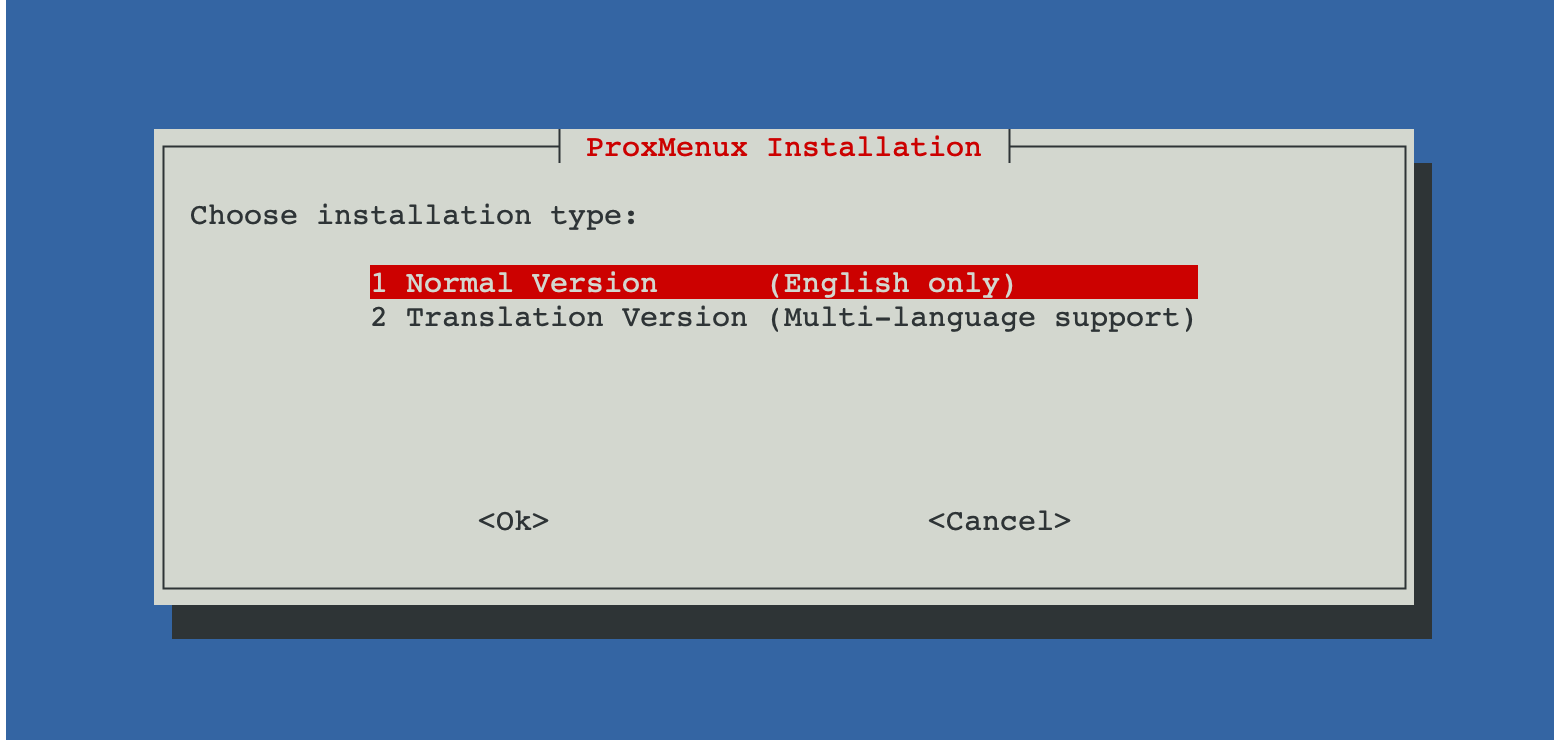
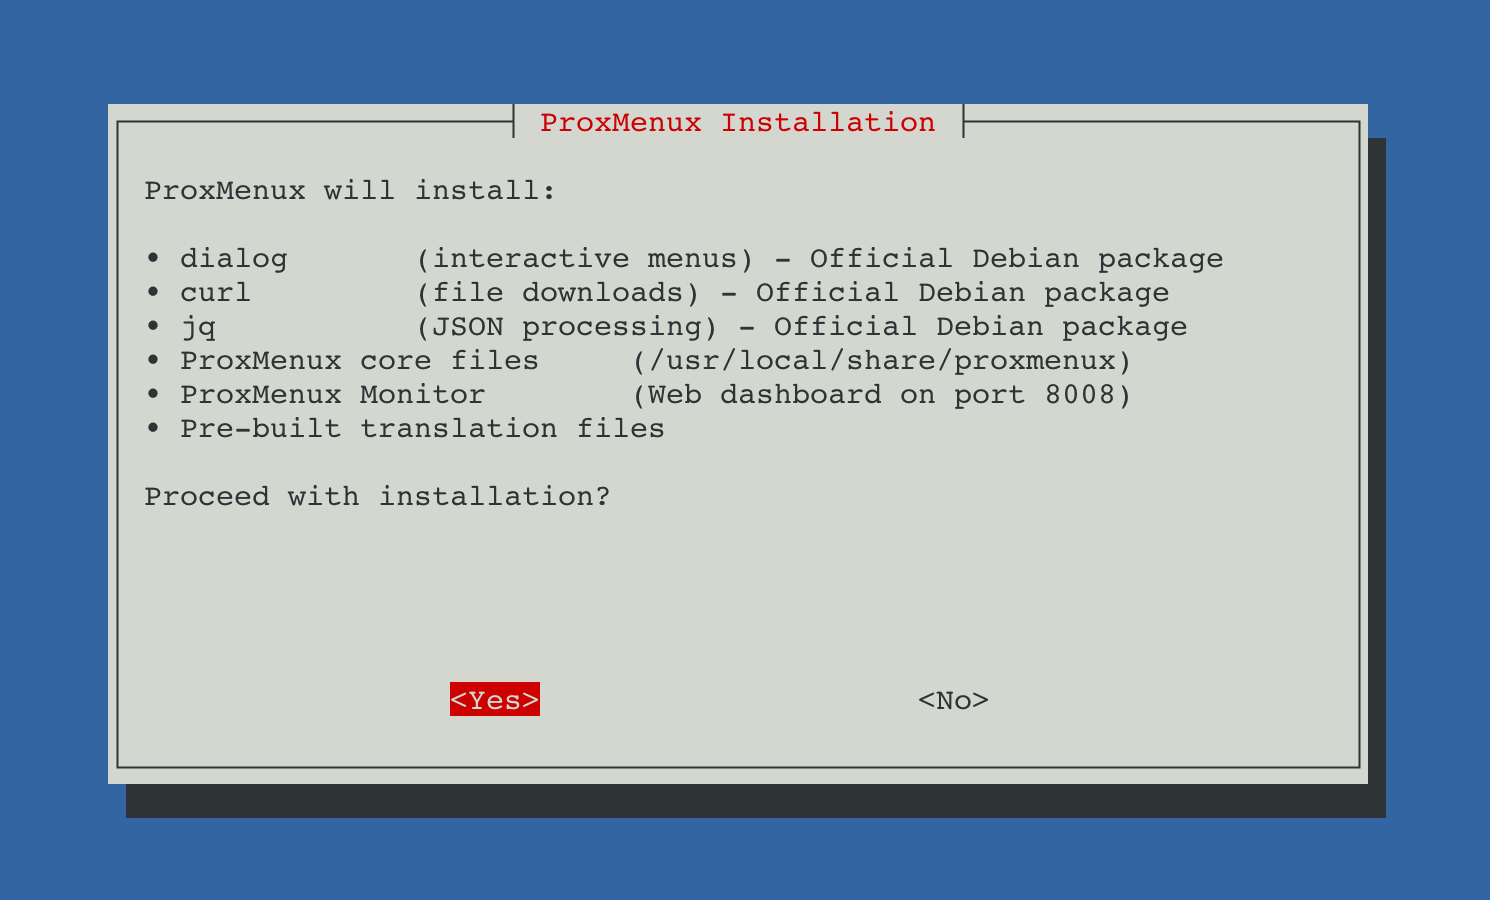
docs: promote /web from develop — v1.2.3 changelog + Backups video + install page refresh + PBS keyfile docs polish
Consolidates the /web changes that were made on develop for the v1.2.3 stable
release, so the release PR (develop → main) can focus on version.txt +
AppImage + shell scripts without web conflicts.

Contents:

- CHANGELOG.md + web/data/changelog/es.md — v1.2.3 stable entry prepended
  (bullets + tables, not paragraphs) with the release header image.
- images/ProxMenux_backup.png — new v1.2.3 release header image.
- web/app/[locale]/docs/backup-restore/page.tsx +
  web/messages/{en,es}/docs/backup-restore/index.json — new Video walkthrough
  block for the YouTube demo of the Backups feature (videoId K7A1KtOe4IQ),
  embedded high on the overview page via the shared YouTubeEmbed component.
- web/app/[locale]/docs/installation/page.tsx +
  web/messages/{en,es}/docs/installation.json +
  web/public/install/install.png — stale Translation-flavour and Python-from-
  PyPI mentions removed from the install page; screenshot refreshed and moved
  to local /install/install.png (was pointing at the legacy GitHub Pages URL).
- web/messages/es/docs/backup-restore/destinations/pbs.json — minor polish
  aligned with PR #247 already on main.
- web/public/images/docs/backup-restore/pbs-paired-backup-groups.png — updated
  screenshot to match the reworked PBS-paired-group naming shipped in the beta
  cycle.
- images/logos_txt/jc_channel.txt — new asset for the contributors page.

diff --git a/web/app/[locale]/docs/backup-restore/page.tsx b/web/app/[locale]/docs/backup-restore/page.tsx
@@ -4,6 +4,7 @@ import { Link } from "@/i18n/navigation"
 import { DocHeader } from "@/components/ui/doc-header"
 import { Callout } from "@/components/ui/callout"
 import { DataFlowDiagram } from "@/components/ui/data-flow-diagram"
+import { YouTubeEmbed } from "@/components/ui/youtube-embed"
 
 export async function generateMetadata({
   params,
@@ -80,6 +81,19 @@ export default async function BackupRestoreOverviewPage({
       <Callout variant="info" title={t("intro.title")}>
         {t.rich("intro.body", { code, strong })}
       </Callout>
+
+      <h2 className="text-2xl font-semibold mt-10 mb-4 text-gray-900">
+        {t("video.heading")}
+      </h2>
+      <p className="mb-4 text-gray-800 leading-relaxed">
+        {t("video.intro")}
+      </p>
+
+      <YouTubeEmbed
+        videoId="K7A1KtOe4IQ"
+        title={t("video.title")}
+        caption={t("video.caption")}
+      />
 
       <h2 className="text-2xl font-semibold mt-10 mb-4 text-gray-900">
         {t("whatItIsNot.heading")}

diff --git a/web/app/[locale]/docs/installation/page.tsx b/web/app/[locale]/docs/installation/page.tsx
@@ -97,7 +97,7 @@ export default async function InstallationPage({ params }: { params: Promise<{ l
       <p className="mb-4 text-gray-800 leading-relaxed">{t.rich("during.outro", { code, strong })}</p>
 
       <Image
-        src="https://macrimi.github.io/ProxMenux/install/install.png"
+        src="/install/install.png"
         alt={t("during.imageAlt")}
         width={900}
         height={500}

diff --git a/CHANGELOG.md b/CHANGELOG.md
@@ -1,4 +1,119 @@
 
+## 2026-07-14
+
+### New version ProxMenux v1.2.3
+
+
+![ProxMenux Backups](https://raw.githubusercontent.com/MacRimi/ProxMenux/main/images/ProxMenux_backup.png)
+
+Stable consolidation of the **v1.2.2.x beta cycle** (v1.2.2.1 → v1.2.2.2 → v1.2.2.3). The headline is a new **Backups** section with a create / schedule / restore flow against Local, PBS and Borg, a live post-restore progress card, a PBS encryption dialog, and a direction-aware restore that handles cross-kernel jumps. Around it: a new Network Flow topology view, redesigned cards across Overview / VM & LXC / Storage / Network, notifications with richer information without needing AI, a refreshed Health Monitor Thresholds panel, and a full re-verification of the AI-model catalogue for the five supported providers.
+
+---
+
+## 🗄️ Backups integrated in the Monitor
+
+- **Create / schedule / restore** host backups against **Local**, **Proxmox Backup Server** and **Borg** destinations from the dashboard.
+- **Two scheduling modes**: dedicated systemd timer, or *attached* (recommended) to an existing PVE vzdump job with retention inherited from the backup task on each run.
+- **PBS encryption with recovery blob**: encrypted backups store a passphrase-wrapped copy of the keyfile as a `-keyrecovery` group next to each backup, so a new Proxmox install can always get the key back with the user's passphrase.
+- **Direction-aware restore**: reapplies IOMMU / VFIO / GRUB tunings on cross-kernel jumps, protects critical packages from cascade-remove, auto-remaps NICs after a motherboard swap.
+- **Live post-restore progress card**: after the reboot, the Backups tab shows a real-time card with step-by-step milestones, per-component status (NVIDIA, Intel GPU tools, Coral, AMD tools) and a log tail with an Issues-only filter. Past restores are archived and browsable.
+- **PBS keyfile management inline in the Monitor**: each PBS destination row exposes Download / Upload / Delete for the keyfile plus a Yes/No + passphrase + contextual Apply toggle for the escrow. When the installed keyfile does not match the backup's manifest, View contents / Download / Restore now show a structured amber panel with the required fingerprint so the operator knows which keyfile to import.
+
+---
+
+## 🌐 Network Flow diagram
+
+- New live topology view on the **Network** tab: NICs → host → bridges → LXCs / VMs.
+- Animated rx / tx pulses on every internal link — immediate answer to *"which guest is pulling / pushing right now"* without cross-referencing multiple panels.
+- Tree layout designed to read cleanly on mobile devices.
+
+---
+
+## 🎨 Redesigned cards across Overview / VM & LXC / Storage / Network
+
+- Layouts reworked for faster reading and denser, more practical information.
+- Key numbers surface at a glance, grouped by relevance.
+- Responsive grid behaves cleanly from a phone up to an ultrawide.
+- **Physical Disks** and **Physical Interfaces** cards on Storage and Network get the largest visual change — clearer per-item presentation.
+
+---
+
+## 🔔 Richer notifications out of the box
+
+For users who do **not** use an AI enhancement agent, the templated body now adds more useful content:
+
+- Titles name the affected object (`Storage 'PBS' unavailable` instead of `1 Proxmox storage(s) unavailable`, `Network connectivity lost — vmbr0`, `3 health checks degraded — Storage (myPBS), Network (vmbr0), CPU`).
+- Long lists surface the top offenders with an `…and N more` tail so nothing is silently dropped.
+- Recovery notifications preserve the same identity used in the alert.
+- Users with AI enrichment keep getting their tailored rewrite on top of this improved base.
+
+---
+
+## 🩺 Health Monitor Thresholds redesigned
+
+- The **Settings → Health Monitor Thresholds** panel that controls per-category Warning and Critical levels (CPU, memory, temperature, storage, disks, …) was reworked with clearer visual grouping and inline hints.
+- Tuning a threshold now takes a couple of clicks instead of scrolling through a wall of numbers.
+
+---
+
+## 🛠 Notable fixes
+
+- **USB-NVMe / USB-SATA SMART on `removable=0` enclosures** — enclosures reporting `removable=0` (ASMedia, JMicron, Realtek, ASM105x) now walk sysfs to detect USB attachment, so `-d snt*` pass-through is tried and the drive's real model, serial, temperature, power-on hours and health surface. Temperature history sampler picks up the same fix.
+- **PBS encryption prompt reworked** to a single explicit *Encrypt this backup?* Yes/No — nothing is uploaded to PBS unless the answer is Yes. Only when a keyfile is not yet installed does a second dialog ask whether to generate a new one or import an existing one. Cancelling never leaves a phantom keyfile behind.
+- **Attached scheduled backups now inherit retention on every run** — jobs attached to a PVE vzdump parent re-read the parent's `prune-backups` config at each run and rewrite `KEEP_*` accordingly. Previously frozen to the value at job creation time.
+- **Installer no longer auto-relaunches `menu` after an update** — the `exec MENU_SCRIPT` at the tail of the update path triggered *"line: syntax"* errors when bash tried to read the just-rewritten `/usr/local/bin/menu` under its feet. Flow now exits cleanly; operator types `menu` when ready. `change_release_channel` in Settings unaffected.
+- **PBS restore listing broken on Proxmox 9 / jq 1.7** — `hb_pbs_list_snapshots` switched from the prefix form `and not (...)` (rejected by jq 1.7) to the postfix form `and ((...) | not)` (accepted by both jq 1.6 and 1.7). Silent stderr redirect removed so future parse errors surface.
+- **`run_scheduled_backup.sh` no longer crashes when `LANGUAGE` is unset** — cron / systemd invocations now load language + initialize the translation cache before sourcing utility functions that require it.
+- **Local archive restore prompts no longer freeze silently** — `hb_prompt_restore_source_dir` and `hb_prompt_local_archive` use the fd-9 TTY handoff already applied elsewhere.
+- **Terminal modal auto-focuses xterm** so `dialog --yesno` inside CLI scripts receives arrow keys instead of the Close button.
+- **NVIDIA VFIO passthrough writes back `vfio_passthrough` in `components_status.json`** — `switch_gpu_mode.sh`, `switch_gpu_mode_direct.sh` and `add_gpu_vm.sh` update component status when they flip the driver posture. Post-restore auto-reinstall no longer kicks the NVIDIA installer on hosts intentionally left in VFIO mode.
+- **Secure Gateway update notifications no longer trail a bare `— v`** — when only sidecar packages need updating (Tailscale itself unchanged), the title now reads `secure-gateway update available — v<current> (packages only)` and the body shows a single line "Tailscale: v… (unchanged — only sidecar packages need updating)" instead of the confusing `v → v` arrow.
+- **AI model auto-migration for deprecated aliases** — users with `claude-3-5-haiku-latest`, `claude-3-5-sonnet-latest` or `claude-3-opus-latest` (all 404 upstream now) are silently migrated to the current recommendation (`claude-haiku-4-5`, etc.) within 24 h of upgrade, with an `ai_model_migrated` notification explaining what happened.
+- **NVIDIA installer no longer locked to the recommended branch** (#248) — `filter_option_c_branch` used to require an EXACT major match against the kernel-recommended branch, so kernel 7.0.14 users only saw 580.x drivers even when specific 580.x builds failed to compile on the newer PVE 9.1 toolchain. Filter now accepts branch ≥ recommended, so newer stable branches (590 / 595 / 600) are selectable in-menu when they compile. `MIN_DRIVER_VERSION` still gates the floor.
+- **PBS keyfile auto-detection in the Monitor** — the *Upload PBS keyfile* modal (per-destination row) and the encrypted-backup keyfile-required panel (View contents / Download / Restore) now query `/etc/pve/priv/storage/<NAME>.enc` for the selected PBS repository and, when a match is found, offer a one-click *Use this key* import — the same convenience the shell TUI already provided.
+- **Upload PBS keyfile — clearer placeholder** — the *Absolute path on this host* input placeholder was showing the ProxMenux canonical destination path (`/usr/local/share/proxmenux/pbs-key.conf`), which reads as "reuse the file already there". Replaced with a source-path example (`e.g. /etc/pve/priv/storage/<NAME>.enc or /root/my-pbs-key`).
+- **Assorted minor** — PVE webhook URL follows the active SSL state; disk observations recorded before the SMART gate; Login screen no longer swallows a 401 forever after a brief stale-token state; toggles visible on light theme.
+
+---
+
+## 🤖 AI providers refresh
+
+`AppImage/config/verified_ai_models.json` refreshed with functional verification against all five supported providers (`_updated: 2026-07-14`):
+
+| Provider    | Removed (deprecated / 404)                                                                     | Added / kept                                                                                                       | Recommended                       |
+|-------------|-----------------------------------------------------------------------------------------------|--------------------------------------------------------------------------------------------------------------------|-----------------------------------|
+| groq        | `llama-3.1-70b-versatile`, `llama3-70b/8b-8192`, `mixtral-8x7b`, `gemma2-9b-it`                | `llama-3.3-70b-versatile`, `llama-3.1-8b-instant`, `llama-4-scout`, `openai/gpt-oss-20b`, `openai/gpt-oss-120b`    | `llama-3.3-70b-versatile`         |
+| gemini      | `gemini-2.0-flash*`, `gemini-1.5-flash`, `gemini-1.0-pro`                                     | `gemini-flash-lite-latest`, `gemini-2.5-flash-lite/flash`, `gemini-3-flash-preview`, `gemini-3.1/3.5-flash-lite/flash` | `gemini-2.5-flash-lite`           |
+| openai      | `gpt-5.4-nano`, `gpt-5.4-mini` (HTTP 400)                                                     | `gpt-4.1-nano/mini`, `gpt-4o-mini`, `gpt-4.1`, `gpt-4o`, `gpt-5-chat-latest`, `gpt-5-nano`                          | `gpt-4.1-nano`                    |
+| anthropic   | `claude-3-5-haiku-latest`, `claude-3-5-sonnet-latest`, `claude-3-opus-latest` (404 upstream)  | `claude-haiku-4-5`, `claude-sonnet-5`, `claude-opus-4-8`, `claude-sonnet-4-6`, `claude-opus-4-6`, `claude-fable-5` | `claude-haiku-4-5`                |
+| openrouter  | `claude-3.5-*`, `gemini-flash-1.5`, `mistral-7b`, `mixtral-8x7b`                              | `llama-4-scout`, `claude-haiku-4.5`, `claude-sonnet-4.6`, `gemini-2.5-flash/lite`, `mistral-small-3.2-24b`         | `meta-llama/llama-3.3-70b-instruct` |
+
+Auto-migration is built-in: `PollingCollector._check_ai_model_availability()` runs every 24 h and moves users whose configured model was removed to the recommended replacement, with an `ai_model_migrated` notification explaining what happened.
+
+---
+
+## ⬆ Upgrading from v1.2.2
+
+- ProxMenux notifies stable users automatically on the next `menu` launch.
+- Monitor service restarts in-place — **no host reboot is needed** for the upgrade itself.
+- Users on the v1.2.2.x beta channel: the same `menu` flow detects the switch to stable and offers to move the install off the beta installer.
+- Health Monitor settings, dismissed alerts and per-category suppression durations are preserved verbatim.
+- AI configurations pointing at now-deprecated models (`claude-3-5-*-latest`, some `gemini-2.0-*`, retired Groq / OpenRouter IDs) are auto-migrated to the recommended replacement within 24 h of the first Monitor poll after the upgrade, with an explanatory notification sent through every enabled channel.
+
+---
+
+## 🙏 Acknowledgments
+
+Special thanks to the community members who shaped this release with concrete designs, field reports and testing:
+
+- **[@JF_Car](https://github.com/JF_Car)** — proposed the tree layout for the new Network Flow diagram so it reads correctly on mobile devices.
+- **[@ghosthvj](https://github.com/ghosthvj)** — contributed the design for the new **Physical Disks** and **Physical Interfaces** cards.
+- **[@riglesias](https://github.com/riglesias)**, **[@princo56](https://github.com/princo56)** and **[@jonatanc](https://github.com/jonatanc)** — tested the beta cycle end-to-end and provided the suggestions that closed most of the operator-visible gaps.
+
+And to every user who opened an issue, commented in [GitHub Discussions](https://github.com/MacRimi/ProxMenux/discussions), reported a bug on the community channel, or told us what worked and what didn't on their hardware — most internal fixes in this release started as one of those reports. Keep them coming.
+
+---
+
 ## 2026-06-02
 
 ### New version ProxMenux v1.2.2 — *Stable consolidation of the v1.2.1.x cycle*

diff --git a/web/data/changelog/es.md b/web/data/changelog/es.md
@@ -1,4 +1,107 @@
 
+## 2026-07-14
+
+### Nueva versión ProxMenux v1.2.3
+
+
+![ProxMenux Backups](https://raw.githubusercontent.com/MacRimi/ProxMenux/main/images/ProxMenux_backup.png)
+
+Consolidación estable del **ciclo beta v1.2.2.x** (v1.2.2.1 → v1.2.2.2 → v1.2.2.3). La novedad principal es una nueva sección **Backups** con un flujo para crear / programar / restaurar contra Local, PBS y Borg, una tarjeta de progreso en tiempo real de post-restore, un diálogo de cifrado PBS, y una restauración *direction-aware* que gestiona los saltos entre kernels. Alrededor de eso: una nueva vista de topología Network Flow, tarjetas rediseñadas en Overview / VM & LXC / Storage / Network, notificaciones con informcacion más ricas  sin necesidad de IA, un panel Health Monitor Thresholds actualizado, y una re-verificación completa del catálogo de modelos IA en los cinco providers soportados.
+
+---
+
+## 🗄️ Backups integrados en el Monitor
+
+- **Crear / programar / restaurar** copias del host contra destinos **Local**, **Proxmox Backup Server** y **Borg** desde el dashboard.
+- **Dos modos de programación**: timer systemd propio, o *attached* a un job vzdump PVE existente (recomendado) con retención heredada de la tarea de copia en cada ejecución.
+- **Cifrado PBS con blob de recuperación**: los backups cifrados almacenan una copia de la keyfile envuelta con passphrase como grupo `-keyrecovery` junto a cada backup, para que una instalación instalacion nueva de proxmox siempre pueda recuperar la clave con la passphrase del usuario.
+- **Restauración direction-aware**: reaplica ajustes IOMMU / VFIO / GRUB en saltos entre kernels, protege paquetes críticos del cascade-remove, re-mapea NICs automáticamente tras un cambio de placa base.
+- **Tarjeta de progreso post-restore en vivo**: tras el reboot, la pestaña Backups muestra una tarjeta en tiempo real con hitos paso a paso, estado por componente (NVIDIA, Intel GPU tools, Coral, AMD tools) y un log tail con filtro "Issues only". Las restauraciones pasadas quedan archivadas y navegables.
+- **Gestión de la keyfile PBS inline en el Monitor**: cada fila de destino PBS expone Descargar / Subir / Eliminar para la keyfile, más un toggle Sí/No + passphrase + botón Apply contextual para el escrow. Cuando la keyfile instalada no coincide con el manifest del backup, View contents / Download / Restore ahora muestran un panel ámbar estructurado con el fingerprint requerido, para saber qué keyfile importar.
+
+---
+
+## 🌐 Diagrama Network Flow
+
+- Nueva vista de topología en vivo en la pestaña **Network**: NICs → host → bridges → LXCs / VMs.
+- Pulsos rx / tx animados en cada enlace interno — respuesta inmediata a *"¿qué guest está tirando o empujando ahora mismo?"* sin cruzar varios paneles.
+- Layout en árbol diseñado para leerse limpio en dispositivos móviles.
+
+---
+
+## 🎨 Tarjetas rediseñadas en Overview / VM & LXC / Storage / Network
+
+- Layouts rediseñados para lectura más rápida y con información más densa y práctica.
+- Números clave a la vista de un vistazo, agrupados por relevancia.
+- Grid responsive que se comporta limpio desde móvil hasta ultrawide.
+- Las tarjetas de **Physical Disks** y **Physical Interfaces** en Storage y Network son el cambio visual más grande — presentación por-item más clara.
+
+---
+
+## 🔔 Notificaciones más ricas out of the box
+
+Para quienes **no** usan un agente de enriquecimiento con IA, el cuerpo de las plantilas ahora añade contenido más útil:
+
+- Los títulos nombran el objeto afectado (`Storage 'PBS' unavailable` en vez de `1 Proxmox storage(s) unavailable`, `Network connectivity lost — vmbr0`, `3 health checks degraded — Storage (myPBS), Network (vmbr0), CPU`).
+- Las listas largas muestran los top offenders con una coleta `…and N more` para no perder nada en silencio.
+- Las notificaciones de recovery preservan la misma identidad usada en la alerta.
+- Los usuarios con enrichment IA siguen recibiendo su reescritura personalizada encima de esta base mejorada.
+
+---
+
+## 🩺 Panel Health Monitor Thresholds rediseñado
+
+- El panel **Settings → Health Monitor Thresholds** que controla los niveles Warning y Critical por categoría (CPU, memoria, temperatura, storage, disks, …) se ha rediseñado con agrupación visual más clara e hints inline.
+- Ajustar un threshold ahora es un par de clicks en vez de scrollear por un muro de números.
+
+---
+
+## 🛠 Fixes destacados
+
+- **SMART en enclosures USB-NVMe / USB-SATA que reportan `removable=0`** — los enclosures que reportan `removable=0` (ASMedia, JMicron, Realtek, ASM105x) ahora hacen walk de sysfs para detectar attachment USB, así se prueba el pass-through `-d snt*` y aparecen el modelo real del drive, serial, temperatura, power-on hours y health. El sampler del histórico de temperatura hereda el mismo fix.
+- **Prompt de cifrado PBS reworked** a una única pregunta explícita *Encrypt this backup?* Sí/No — nada se sube a PBS a menos que la respuesta sea Sí. Solo cuando no hay keyfile instalada aparece un segundo diálogo que pregunta si generar una nueva o importar una existente. Cancelar nunca deja una keyfile fantasma detrás.
+- **Los backups attached programados ahora heredan retención en cada ejecución** — los jobs attached a un padre vzdump PVE releen la config `prune-backups` del padre en cada run y reescriben `KEEP_*` según corresponda. Antes quedaba congelado al valor del momento de creación del job.
+- **El installer ya no auto-relanza `menu` tras un update** — el `exec MENU_SCRIPT` al final del update path disparaba errores visibles *"line: syntax"* cuando bash intentaba leer el `/usr/local/bin/menu` recién reescrito por debajo. El flujo ahora sale limpio; el usuario teclea `menu` cuando esté listo. `change_release_channel` en Settings no se ve afectado.
+- **PBS restore listing roto en Proxmox 9 / jq 1.7** — `hb_pbs_list_snapshots` cambió de la forma prefix `and not (...)` (jq 1.7 la rechaza) a la postfix `and ((...) | not)` (ambos jq 1.6 y 1.7 la aceptan). También se quitó un `2>/dev/null` que enmascaraba el error de parseo.
+- **`run_scheduled_backup.sh` ya no crashea cuando `LANGUAGE` está unset** — las invocaciones cron / systemd ahora cargan el idioma + inicializan el cache de traducción antes de hacer source a las funciones que lo requieren.
+- **Los prompts de restore de archive local ya no se congelan en silencio** — `hb_prompt_restore_source_dir` y `hb_prompt_local_archive` usan el TTY handoff fd-9 ya aplicado en otros sitios.
+- **El modal de terminal auto-focusea xterm** para que `dialog --yesno` dentro de scripts CLI reciba las flechas en lugar del botón Close.
+- **NVIDIA VFIO passthrough escribe `vfio_passthrough` de vuelta en `components_status.json`** — `switch_gpu_mode.sh`, `switch_gpu_mode_direct.sh` y `add_gpu_vm.sh` actualizan el status del componente al cambiar el estado del driver. El auto-reinstall post-restore ya no pisa NVIDIA en hosts dejados intencionadamente en modo VFIO.
+- **Las notificaciones de update de Secure Gateway ya no arrastran un `— v` colgando** — cuando solo hay paquetes sidecar que actualizar (Tailscale mismo sin cambio), el título dice `secure-gateway update available — v<current> (packages only)` y el body muestra una única línea "Tailscale: v… (unchanged — only sidecar packages need updating)" en vez de la confusa flecha `v → v`.
+- **Auto-migración de modelos IA deprecados** — usuarios con `claude-3-5-haiku-latest`, `claude-3-5-sonnet-latest` o `claude-3-opus-latest` (todos 404 upstream ahora) se migran en silencio a la recomendación actual (`claude-haiku-4-5`, etc.) dentro de las 24 h del upgrade, con una notificación `ai_model_migrated` explicando qué pasó.
+- **NVIDIA installer ya no bloqueado a la branch recomendada** (#248) — `filter_option_c_branch` requería un match EXACTO de major branch contra la recomendada por kernel, así que los usuarios de kernel 7.0.14 solo veían drivers 580.x aunque builds concretos de 580.x fallaran al compilar contra el toolchain nuevo de PVE 9.1. El filtro ahora acepta branch ≥ recomendada, así que branches estables más nuevas (590 / 595 / 600) son seleccionables in-menu cuando compilan. `MIN_DRIVER_VERSION` sigue vigilando el suelo.
+- **Minor variado** — la URL del webhook PVE sigue el estado SSL activo; las disk observations se registran antes del gate SMART; la pantalla de Login ya no se traga un 401 para siempre tras un stale-token breve; los toggles visibles en tema claro.
+
+---
+
+## 🤖 Refresh de providers IA
+
+`AppImage/config/verified_ai_models.json` refrescado con verificación funcional contra los cinco providers soportados (`_updated: 2026-07-14`):
+
+| Provider    | Eliminados (deprecados / 404)                                                                 | Añadidos / mantenidos                                                                                              | Recomendado                       |
+|-------------|-----------------------------------------------------------------------------------------------|--------------------------------------------------------------------------------------------------------------------|-----------------------------------|
+| groq        | `llama-3.1-70b-versatile`, `llama3-70b/8b-8192`, `mixtral-8x7b`, `gemma2-9b-it`                | `llama-3.3-70b-versatile`, `llama-3.1-8b-instant`, `llama-4-scout`, `openai/gpt-oss-20b`, `openai/gpt-oss-120b`    | `llama-3.3-70b-versatile`         |
+| gemini      | `gemini-2.0-flash*`, `gemini-1.5-flash`, `gemini-1.0-pro`                                     | `gemini-flash-lite-latest`, `gemini-2.5-flash-lite/flash`, `gemini-3-flash-preview`, `gemini-3.1/3.5-flash-lite/flash` | `gemini-2.5-flash-lite`           |
+| openai      | `gpt-5.4-nano`, `gpt-5.4-mini` (HTTP 400)                                                     | `gpt-4.1-nano/mini`, `gpt-4o-mini`, `gpt-4.1`, `gpt-4o`, `gpt-5-chat-latest`, `gpt-5-nano`                          | `gpt-4.1-nano`                    |
+| anthropic   | `claude-3-5-haiku-latest`, `claude-3-5-sonnet-latest`, `claude-3-opus-latest` (404 upstream)  | `claude-haiku-4-5`, `claude-sonnet-5`, `claude-opus-4-8`, `claude-sonnet-4-6`, `claude-opus-4-6`, `claude-fable-5` | `claude-haiku-4-5`                |
+| openrouter  | `claude-3.5-*`, `gemini-flash-1.5`, `mistral-7b`, `mixtral-8x7b`                              | `llama-4-scout`, `claude-haiku-4.5`, `claude-sonnet-4.6`, `gemini-2.5-flash/lite`, `mistral-small-3.2-24b`         | `meta-llama/llama-3.3-70b-instruct` |
+
+Auto-migración incluida: `PollingCollector._check_ai_model_availability()` se ejecuta cada 24 h y mueve a los usuarios cuyo modelo configurado haya sido retirado a la recomendación reemplazo, con una notificación `ai_model_migrated` explicando qué pasó.
+
+---
+
+## 🙏 Acknowledgments
+
+Agradecimiento especial a los miembros de la comunidad que dieron forma a esta release con diseños concretos, reports de campo y pruebas:
+
+- **[@JF_Car](https://github.com/JF_Car)** — propuso el layout en árbol del nuevo diagrama Network Flow para que se lea correctamente en dispositivos móviles.
+- **[@ghosthvj](https://github.com/ghosthvj)** — contribuyó el diseño de las nuevas tarjetas de **Physical Disks** y **Physical Interfaces**.
+- **[@riglesias](https://github.com/riglesias)**, **[@princo56](https://github.com/princo56)** y **[@jonatanc](https://github.com/jonatanc)** — probaron el ciclo beta end-to-end y aportaron las sugerencias que cerraron la mayoría de los gaps visibles para el usuario.
+
+Y a cada usuario que abrió una issue, comentó en [GitHub Discussions](https://github.com/MacRimi/ProxMenux/discussions), reportó un bug por el canal comunitario, o simplemente pasó a decir qué funcionaba y qué no en su hardware — la mayor parte de los fixes internos de esta release empezaron como uno de esos reports. Que sigan viniendo.
+
+---
+
 ## 2026-06-02
 
 ### Nueva versión ProxMenux v1.2.2 — *Consolidación estable del ciclo v1.2.1.x*